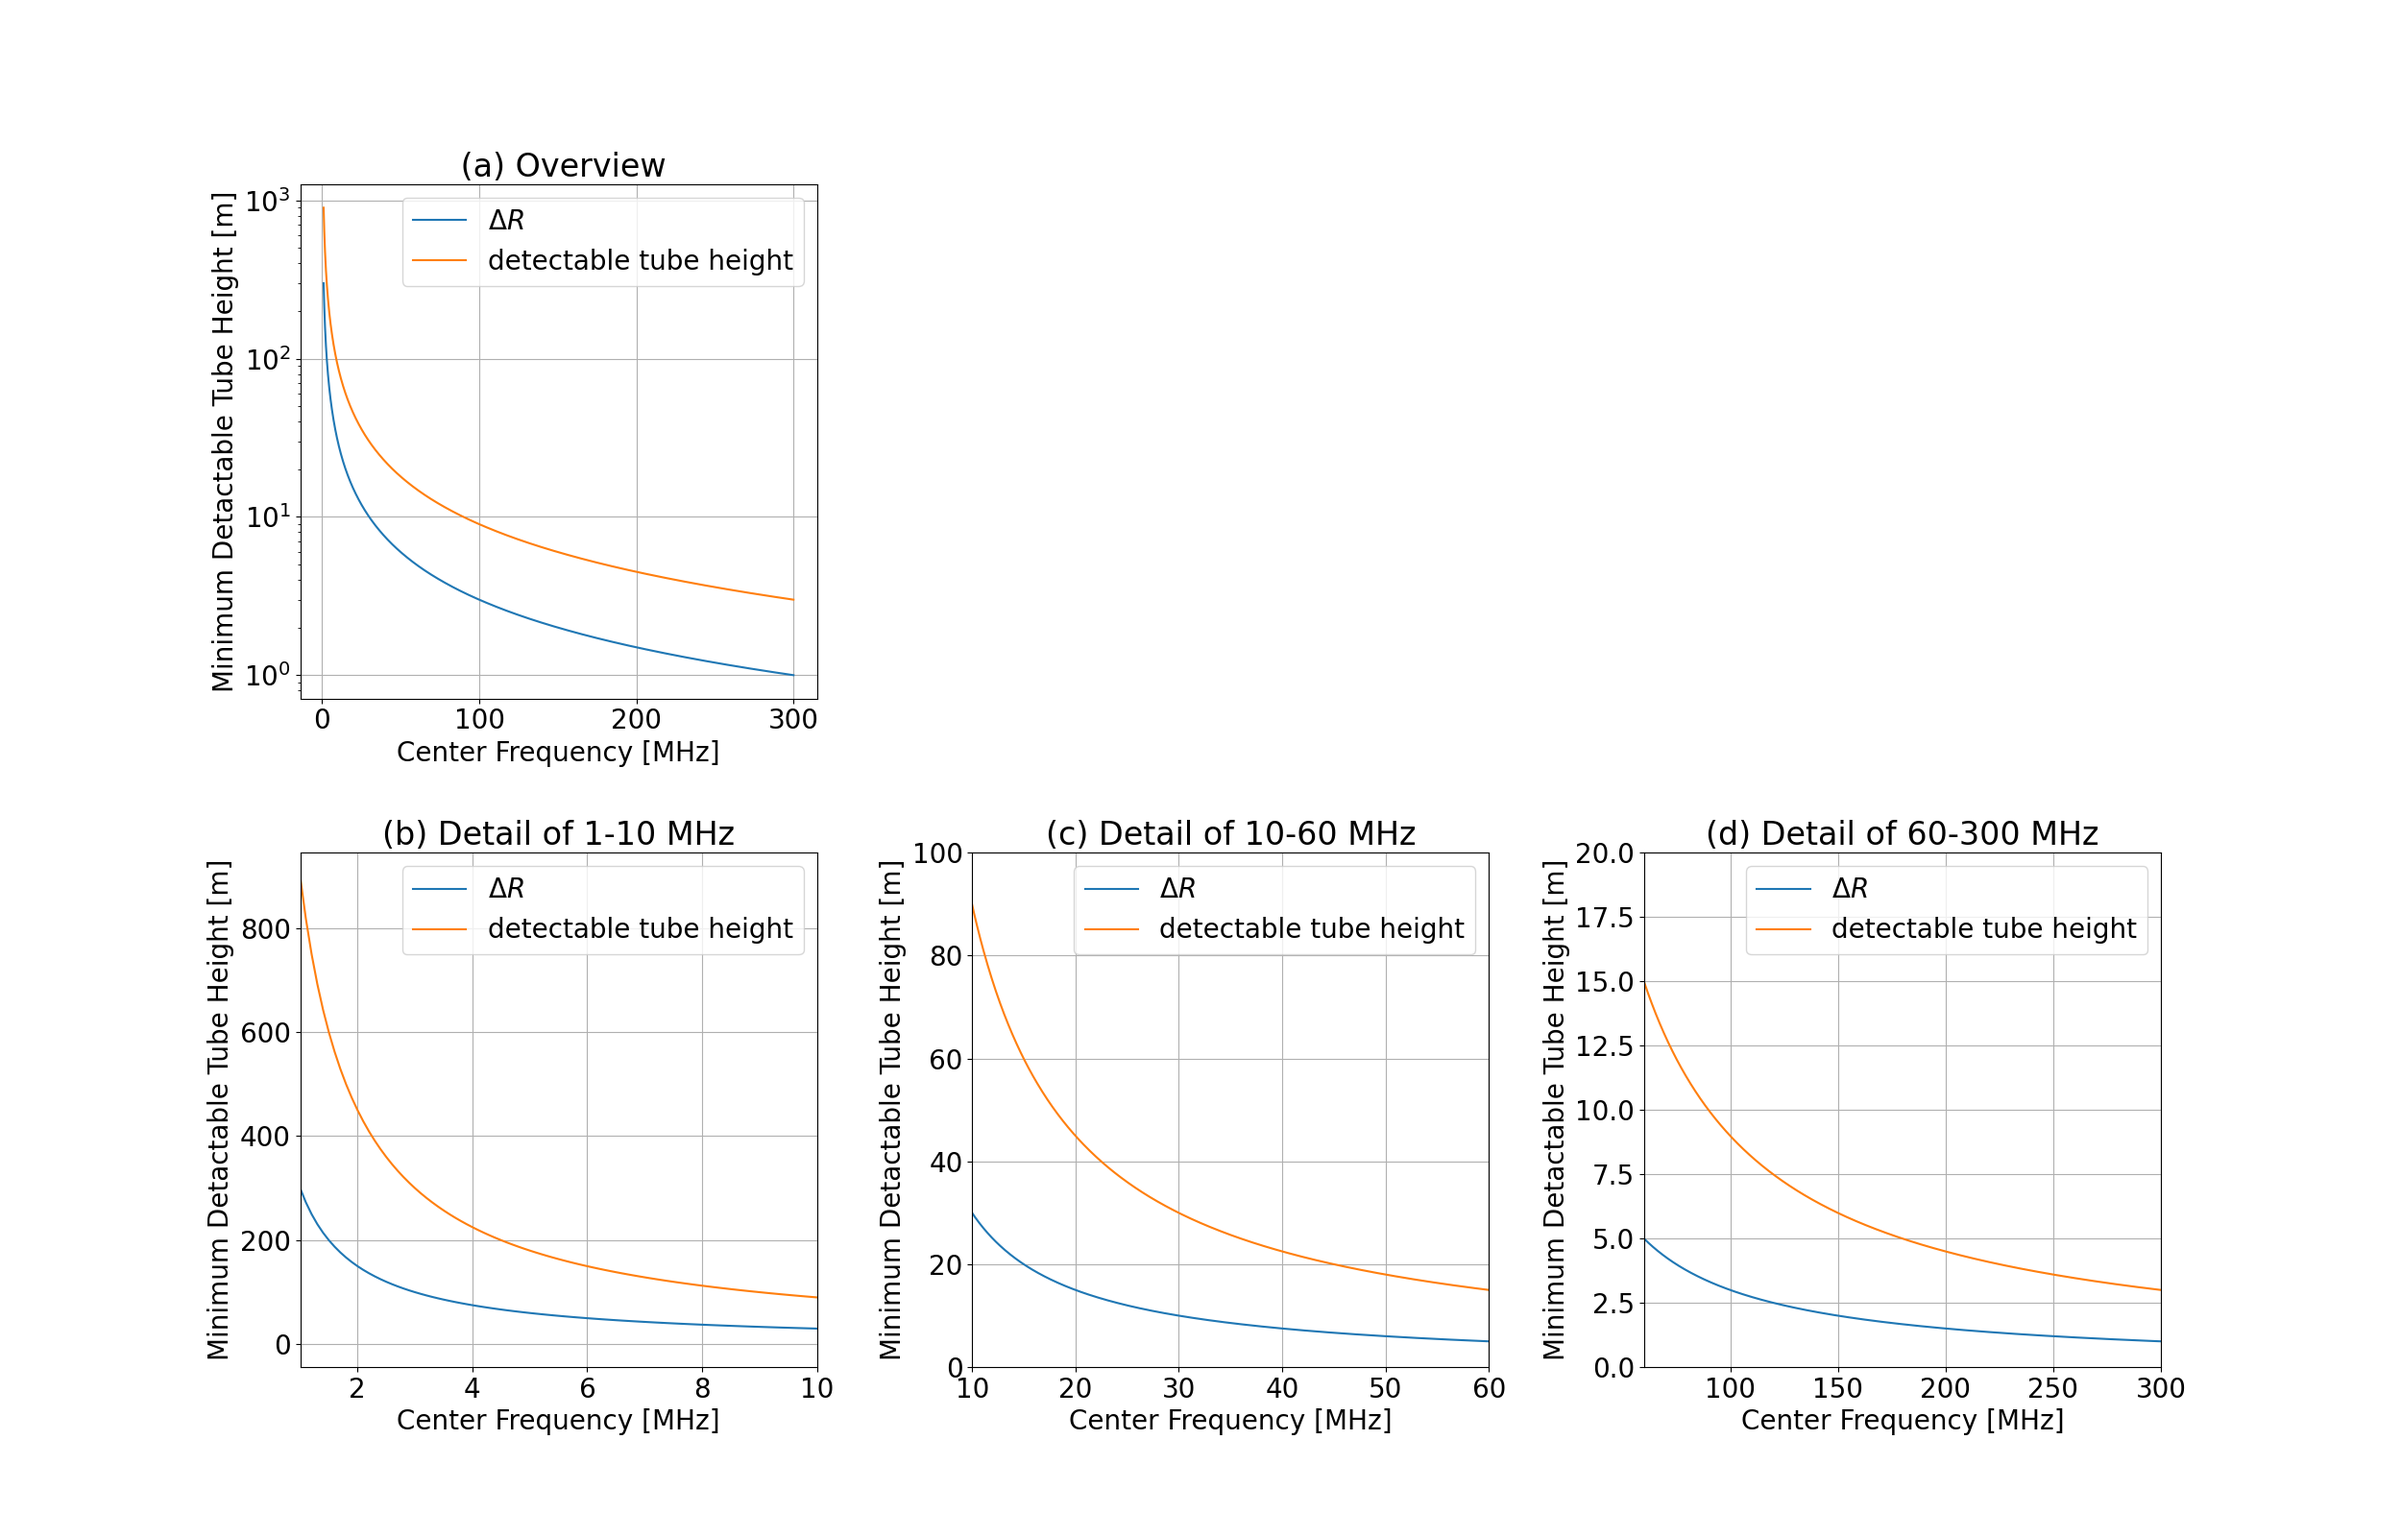
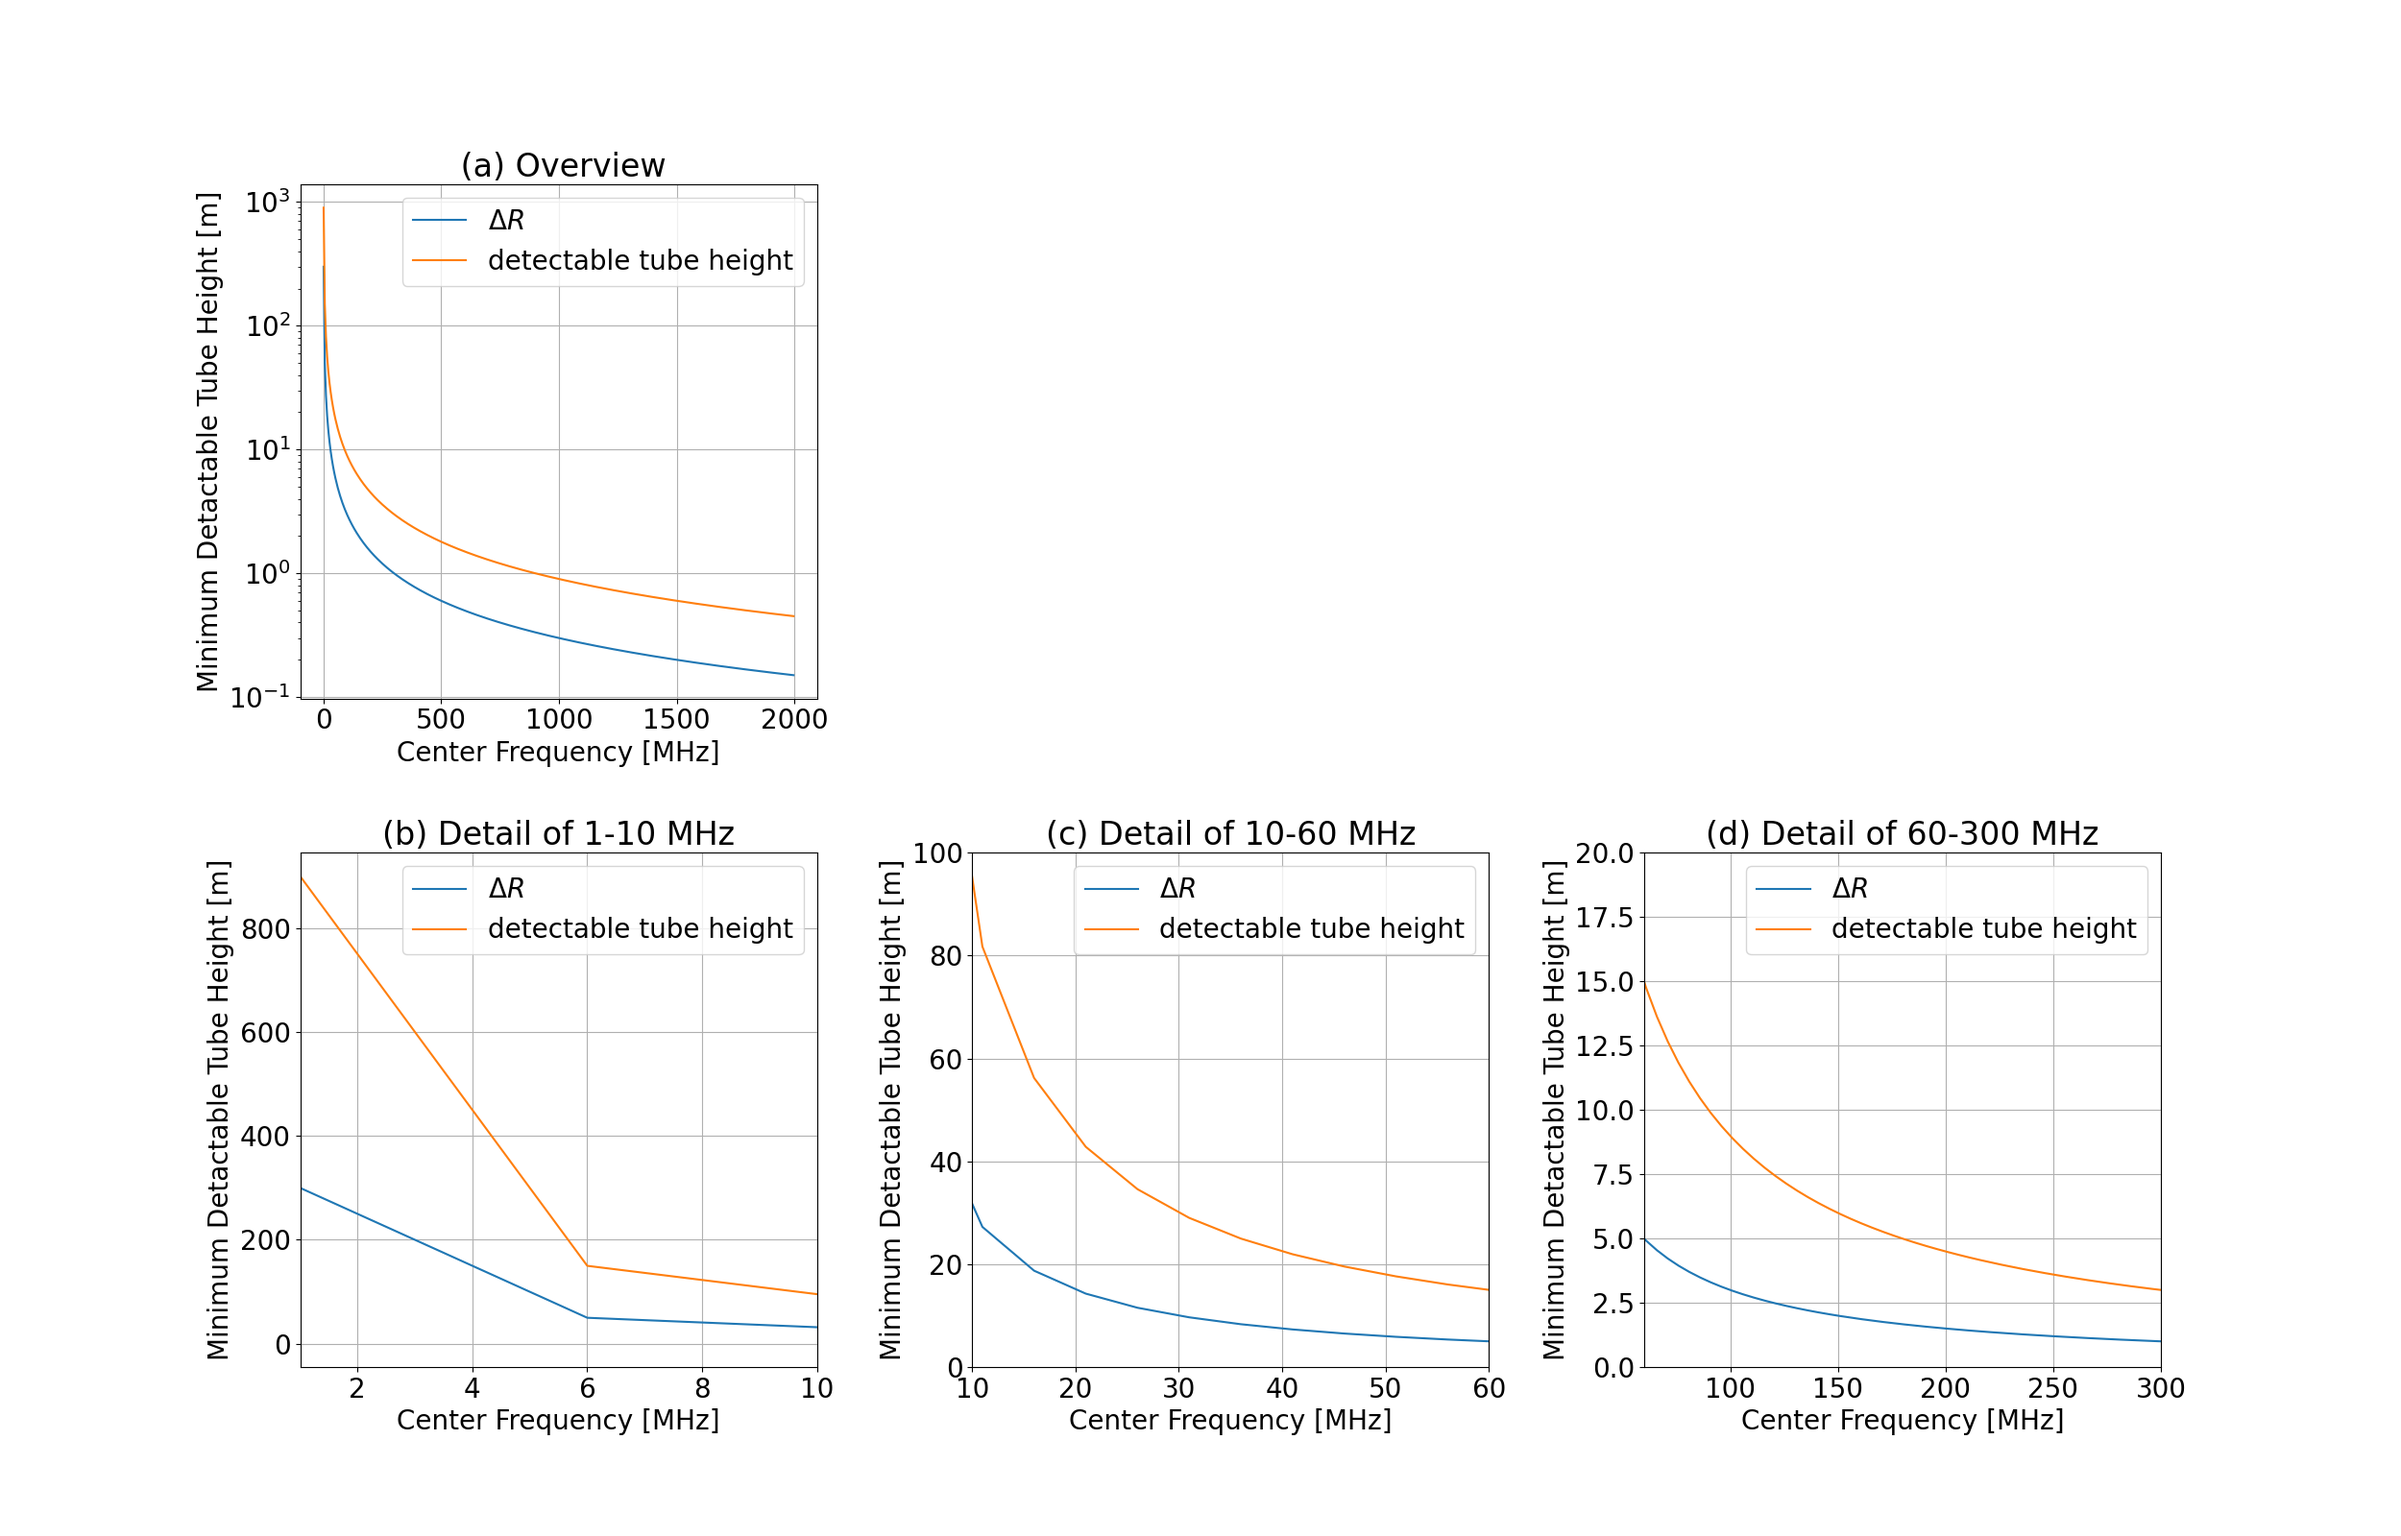
resolutionの再計算

diff --git a/depth_resolution.py b/depth_resolution.py
@@ -5,7 +5,7 @@ import numpy as np
 c = 299792458 # [m/s]
 
 
-f0 = np.arange(1, 300, 0.1) # 中心周波数
+f0 = np.arange(1, 2000, 1) # 中心周波数
 
 def calc_resolution():
     #誘電率
@@ -27,65 +27,77 @@ def calc_resolution():
     plt.plot(f0, dR1, label=r'$\Delta f = 0.5 f_c$')
     #plt.plot(f0, dR2, label=r'$\Delta f = 0.2 f_c$')
 
-    plt.title(' (a) Overview', fontsize=24)
-    plt.xlabel('Center Frequency [MHz]', fontsize=20)
-    plt.ylabel('Depth Resolution [m]', fontsize=20)
-    plt.tick_params(labelsize=20)
-    plt.yscale('log')
-    plt.grid()
-    plt.legend(fontsize='20')
-
-
-    # ----2枚目----
-    plt.subplot(2, 3, 4)
-    plt.plot(f0, dR1, label=r'$\Delta f = 0.5 f_c$')
-    #plt.plot(f0, dR2, label=r'$\Delta f = 0.2 f_c$')
-
-    plt.title('(b) Detail of 1-10 MHz', fontsize=24)
+    plt.title('(a) 1-10 MHz', fontsize=24)
     plt.xlabel('Center Frequency [MHz]', fontsize=20)
     plt.ylabel('Depth Resolution [m]', fontsize=20)
     plt.tick_params(labelsize=20)
     plt.xlim(1, 10)
     plt.grid()
-    plt.legend(fontsize='20')
+    #plt.legend(fontsize='20')
+
+
+    # ----2枚目----
+    plt.subplot(2, 3, 2)
+    plt.plot(f0, dR1, label=r'$\Delta f = 0.5 f_c$')
+    #plt.plot(f0, dR2, label=r'$\Delta f = 0.2 f_c$')
+
+    plt.title('(b) 10-50 MHz', fontsize=24)
+    plt.xlabel('Center Frequency [MHz]', fontsize=20)
+    plt.ylabel('Depth Resolution [m]', fontsize=20)
+    plt.tick_params(labelsize=20)
+    plt.xlim(10, 50)
+    plt.ylim(0, 35)
+    plt.grid()
+    #plt.legend(fontsize='20')
 
 
     # ----3枚目----
+    plt.subplot(2, 3, 3)
+    plt.plot(f0, dR1, label=r'$\Delta f = 0.5 f_c$')
+    #plt.plot(f0, dR2, label=r'$\Delta f = 0.2 f_c$')
+
+    plt.title('(c) 50-500 MHz', fontsize=24)
+    plt.xlabel('Center Frequency [MHz]', fontsize=20)
+    plt.ylabel('Depth Resolution [m]', fontsize=20)
+    plt.tick_params(labelsize=20)
+    plt.xlim(50, 500)
+    plt.ylim(0, 7.5)
+    plt.grid()
+    #plt.legend(fontsize='20')
+
+
+    plt.subplot(2, 3, 4)
+    plt.plot(f0, dR1, label=r'$\Delta f = 0.5 f_c$')
+    #plt.plot(f0, dR2, label=r'$\Delta f = 0.2 f_c$')
+
+    plt.title('(d) 500-1000 MHz', fontsize=24)
+    plt.xlabel('Center Frequency [MHz]', fontsize=20)
+    plt.ylabel('Depth Resolution [m]', fontsize=20)
+    plt.tick_params(labelsize=20)
+    plt.xlim(500, 1000)
+    plt.ylim(0, 0.75)
+    plt.grid()
+    #plt.legend(fontsize='20')
+
+
     plt.subplot(2, 3, 5)
     plt.plot(f0, dR1, label=r'$\Delta f = 0.5 f_c$')
     #plt.plot(f0, dR2, label=r'$\Delta f = 0.2 f_c$')
 
-    plt.title('(c) Detail of 10-60 MHz', fontsize=24)
+    plt.title('(e) 1000-2000 MHz', fontsize=24)
     plt.xlabel('Center Frequency [MHz]', fontsize=20)
     plt.ylabel('Depth Resolution [m]', fontsize=20)
     plt.tick_params(labelsize=20)
-    plt.xlim(10, 60)
-    plt.ylim(0, 82)
+    plt.xlim(1000, 2000)
+    plt.ylim(0, 0.35)
     plt.grid()
-    plt.legend(fontsize='20')
-
-
-    # ----4枚目----
-    plt.subplot(2, 3, 6)
-    plt.plot(f0, dR1, label=r'$\Delta f = 0.5 f_c$')
-    #plt.plot(f0, dR2, label=r'$\Delta f = 0.2 f_c$')
-
-    plt.title('(d) Detail of 60-300 MHz', fontsize=24)
-    plt.xlabel('Center Frequency [MHz]', fontsize=20)
-    plt.ylabel('Depth Resolution [m]', fontsize=20)
-    plt.tick_params(labelsize=20)
-    plt.xlim(50, 300)
-    plt.ylim(0, 17)
-    plt.grid()
-    plt.legend(fontsize='20')
-
-
+    #plt.legend(fontsize='20')
     plt.savefig('output_resolution/Depth_resolutin.png')
 
 
     plt.show()
 
-#calc_resolution()
+calc_resolution()
 
 
 def calc_resolution_detectability():
@@ -178,4 +190,4 @@ def calc_resolution_detectability():
     plt.show()
 
 
-calc_resolution_detectability()
+#calc_resolution_detectability()
